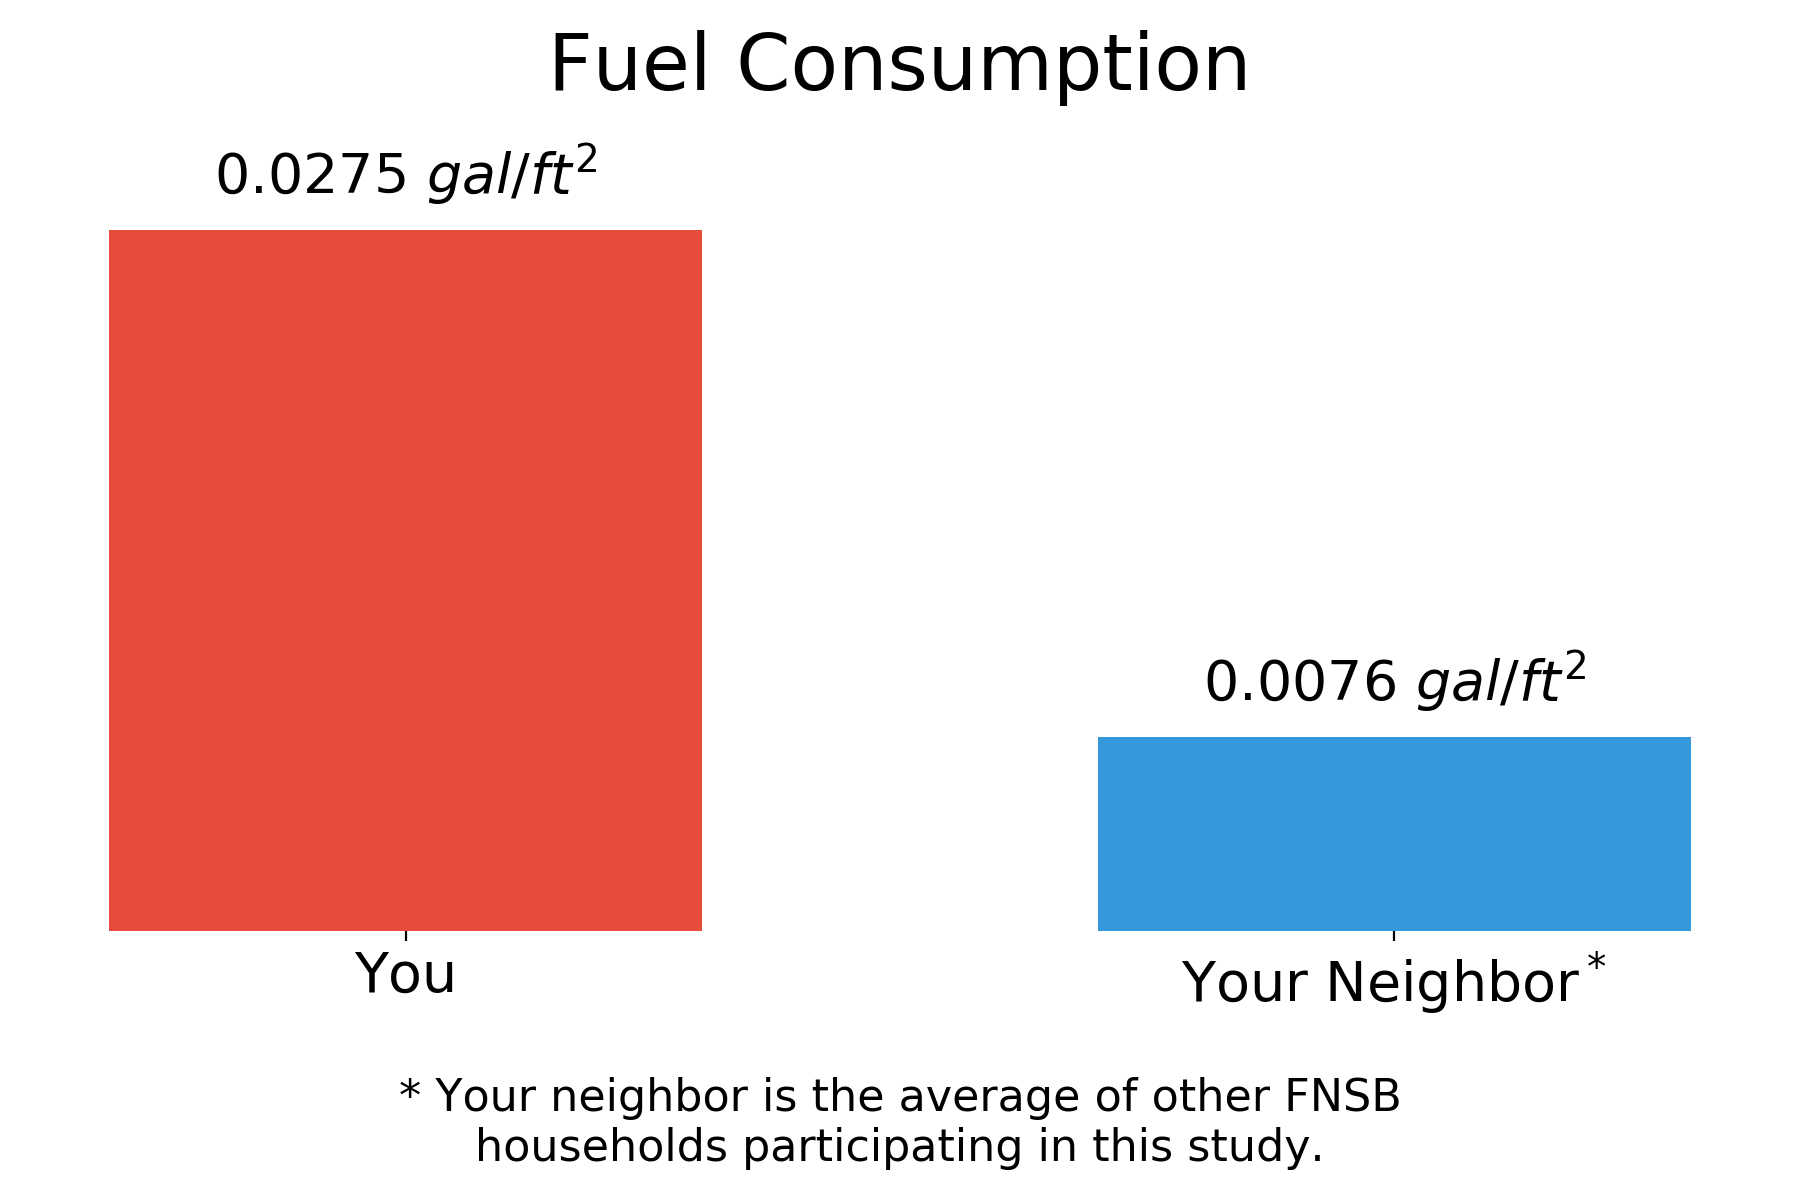
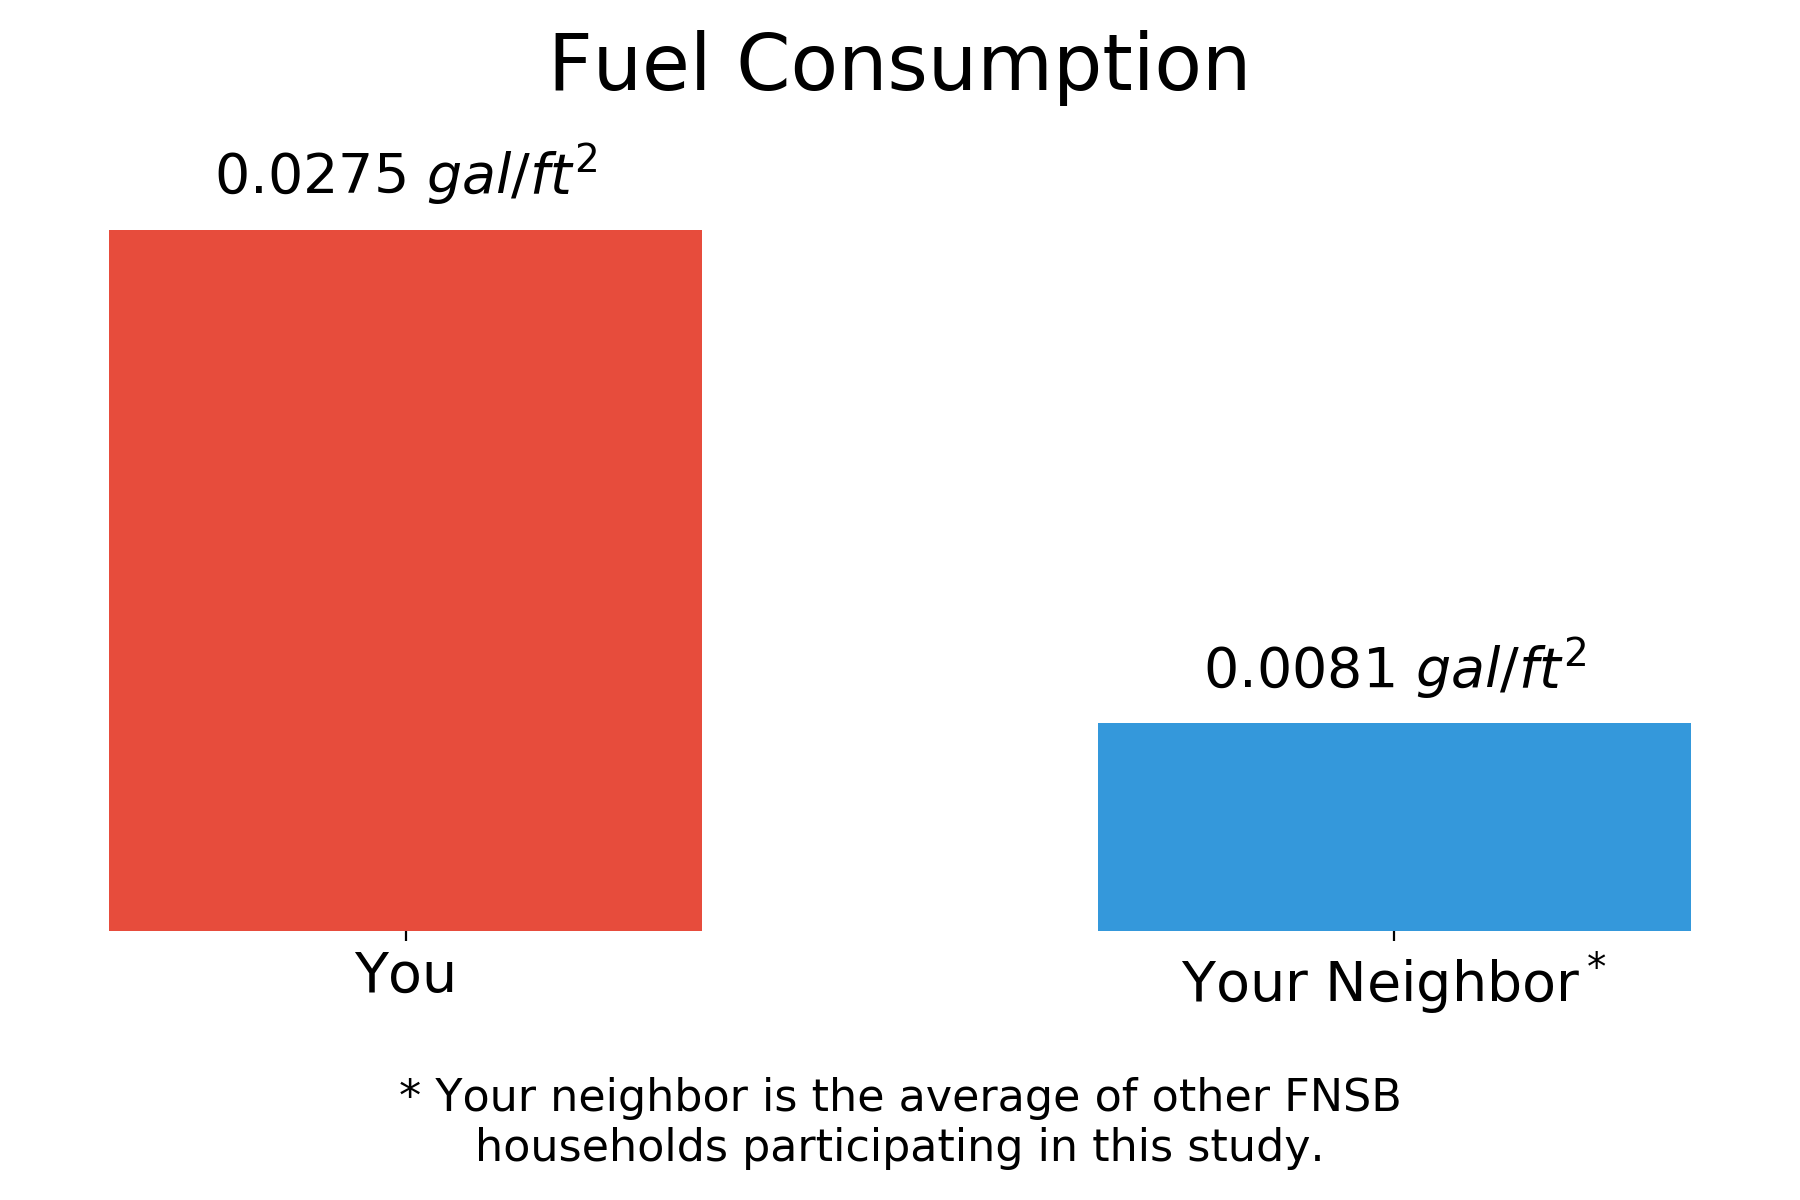
updating monthly reports

Changed region(s): [[0.5911, 0.5242, 0.9333, 0.6167]]

diff --git a/python/scripts/monthly_report.py b/python/scripts/monthly_report.py
@@ -58,6 +58,8 @@ for stove in control_stoves:
     if stove == 'FBK015' or stove == 'FBK020':
         control_stoves.remove(stove)
 
+neighbor_stoves = control_stoves + report_stoves
+
 names = []
 addresses = []
 treatment_group_file = os.path.join(file_path,'..','..','data','tmp','Treatment_Group.csv')
@@ -70,13 +72,7 @@ with open(treatment_group_file,newline='') as csvfile:
 j = 0
 while j < len(report_stoves):
     if j not in [1]:
-        preport.monthly_report(unified_nc_file,report_stoves[j],year_month,begin_year_month,end_year_month,year_months,fuel_price,control_stoves,tip_no,names[j],addresses[j])
+        neighbor_stoves_mod = neighbor_stoves
+        neighbor_stoves_mod.remove(report_stoves[j])
+        preport.monthly_report(unified_nc_file,report_stoves[j],year_month,begin_year_month,end_year_month,year_months,fuel_price,neighbor_stoves_mod,tip_no,names[j],addresses[j])
     j += 1
-    
-#pool = mp.Pool(mp.cpu_count())
-#for i in range(len(report_stoves)): #creating a report for each desired stove in multiple processes
-#    if i not in [1]:
-#        print(i)
-#        pool.apply_async(preport.monthly_report,args=(unified_nc_file,report_stoves[i],year_month,begin_year_month,end_year_month,year_months,fuel_price,control_stoves,tip_no,names[i],addresses[i])) 
-#pool.close()
-#pool.join()

diff --git a/python/puma/fuel.py b/python/puma/fuel.py
@@ -35,13 +35,10 @@ def neighbor_gallons_consumed_per_month(year_month,uni_nc_file,neighbor_stoves):
         stove_dtime.append(ptime.timestamp2datetime(uni_nc[neighbor_stoves[i]+'/Event/Clicks/time'][:]))
         stove_gal.append(list(uni_nc[neighbor_stoves[i]+'/Event/Clicks/fuel_consumption'][:]))
         
-        if neighbor_stoves[i] == 'FBK014':
-            stove_dtime[i] += ptime.timestamp2datetime(uni_nc['FBK015/Event/Clicks/time'][:])
-            stove_gal[i] += list(uni_nc['FBK015/Event/Clicks/fuel_consumption'][:])
-            
-        if neighbor_stoves[i] == 'FBK019':
-            stove_dtime[i] += ptime.timestamp2datetime(uni_nc['FBK020/Event/Clicks/time'][:])
-            stove_gal[i] += list(uni_nc['FBK020/Event/Clicks/fuel_consumption'][:])
+        if neighbor_stoves[i] in ['FBK014','FBK017','FBK019']:
+            next_stove = 'FBK0' + str(int(neighbor_stoves[i][4:7]) + 1)
+            stove_dtime[i] += ptime.timestamp2datetime(uni_nc[next_stove+'/Event/Clicks/time'][:])
+            stove_gal[i] += list(uni_nc[next_stove+'/Event/Clicks/fuel_consumption'][:])
             
     result = mp.Manager().Queue()
     pool = mp.Pool(mp.cpu_count())        
